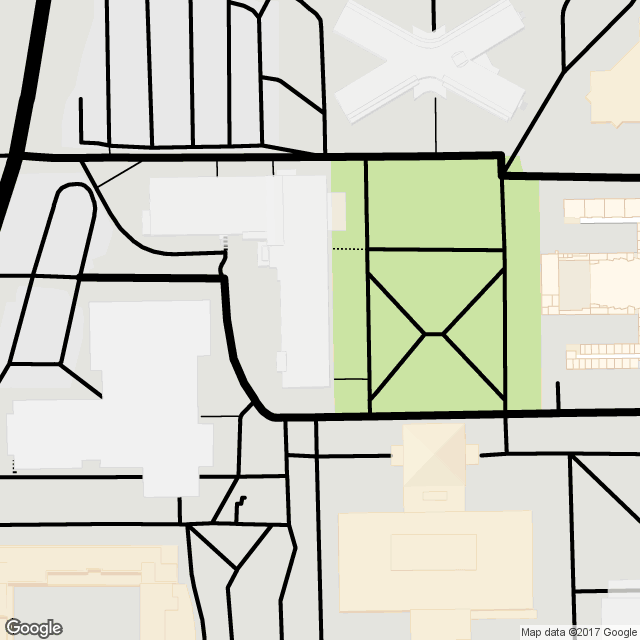
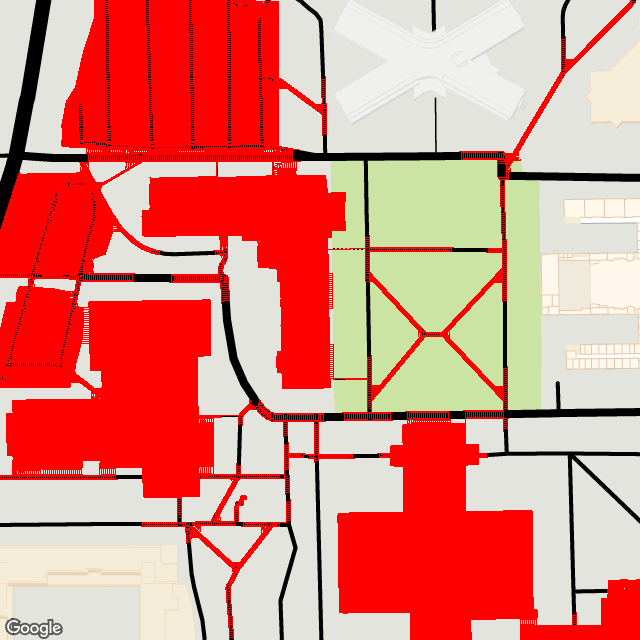
ballin

diff --git a/tests/server/GraphTests.java b/tests/server/GraphTests.java
@@ -11,12 +11,14 @@ import org.junit.Before;
 import org.junit.BeforeClass;
 import org.junit.Test;
 
+import generic.Config;
 import generic.Graph;
 import generic.GraphTools;
 import generic.Node;
 import generic.Tools;
 import generic.UserPrefs;
 import googlemaps.LatLng;
+import server.processing.ColorOperations;
 
 public class GraphTests {
 
@@ -192,10 +194,14 @@ public class GraphTests {
 		nodes.get(0).setStart(true);
 		nodes.get(nodes.size() - 1).setEnd(true);
 		BufferedImage img = server.APITools.DownloadStaticMapImage(start, end, sizeX, sizeY, zoom, false);
-		Tools.WriteImage(img, "testImages/mine.png");
+
 		double metersPerPixel = APITools.getMetersPerPixel(center.latitude, zoom);
 		LatLng southwest = APITools.getSouthwest(center, metersPerPixel, sizeX, sizeY);
 		LatLng northeast = APITools.getNortheast(center, metersPerPixel, sizeX, sizeY);
+		LatLng buildingPoint = new LatLng(40.249603, -111.650054); // JKB
+		BufferedImage filled = ColorOperations.filledImage(img, new Color(Config.MAPS_BUILDING_RGB), southwest,
+				northeast, buildingPoint);
+		Tools.WriteImage(filled, "testImages/mine.png");
 
 		// List<Node> newNodes = generic.GraphTools.GenerateRandomNodes(nodes,
 		// 10, southwest, northeast);
